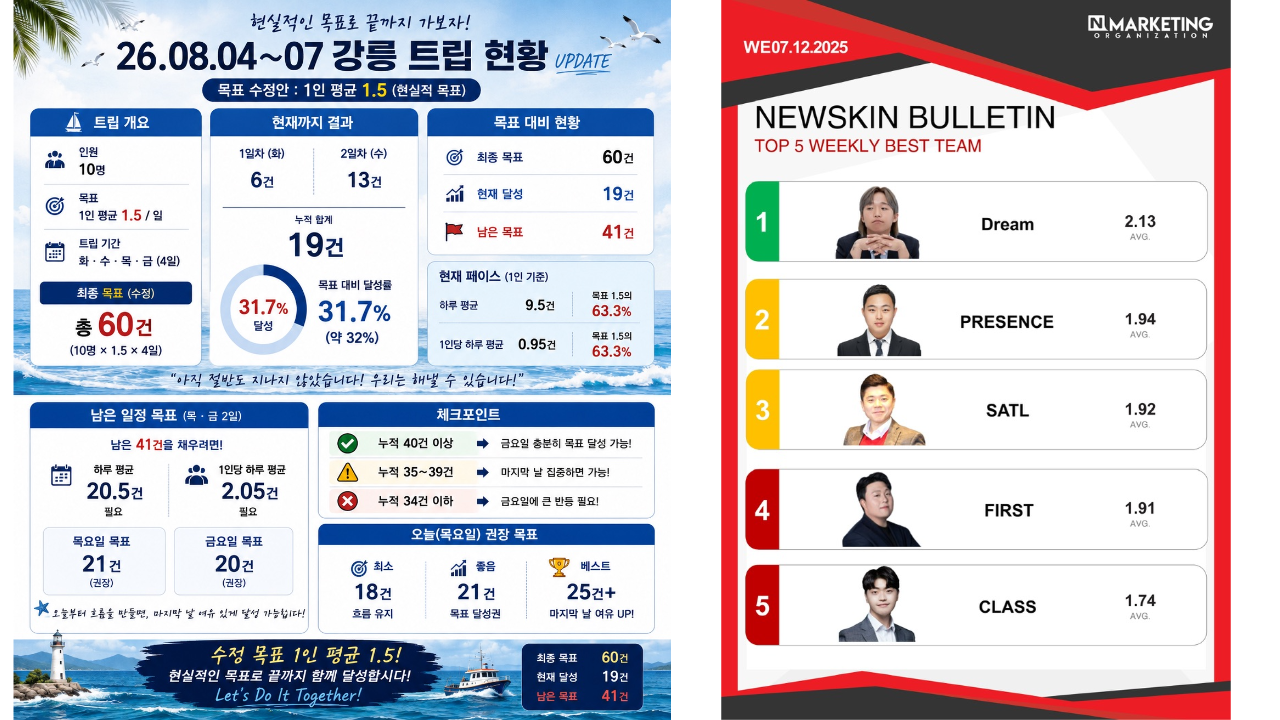
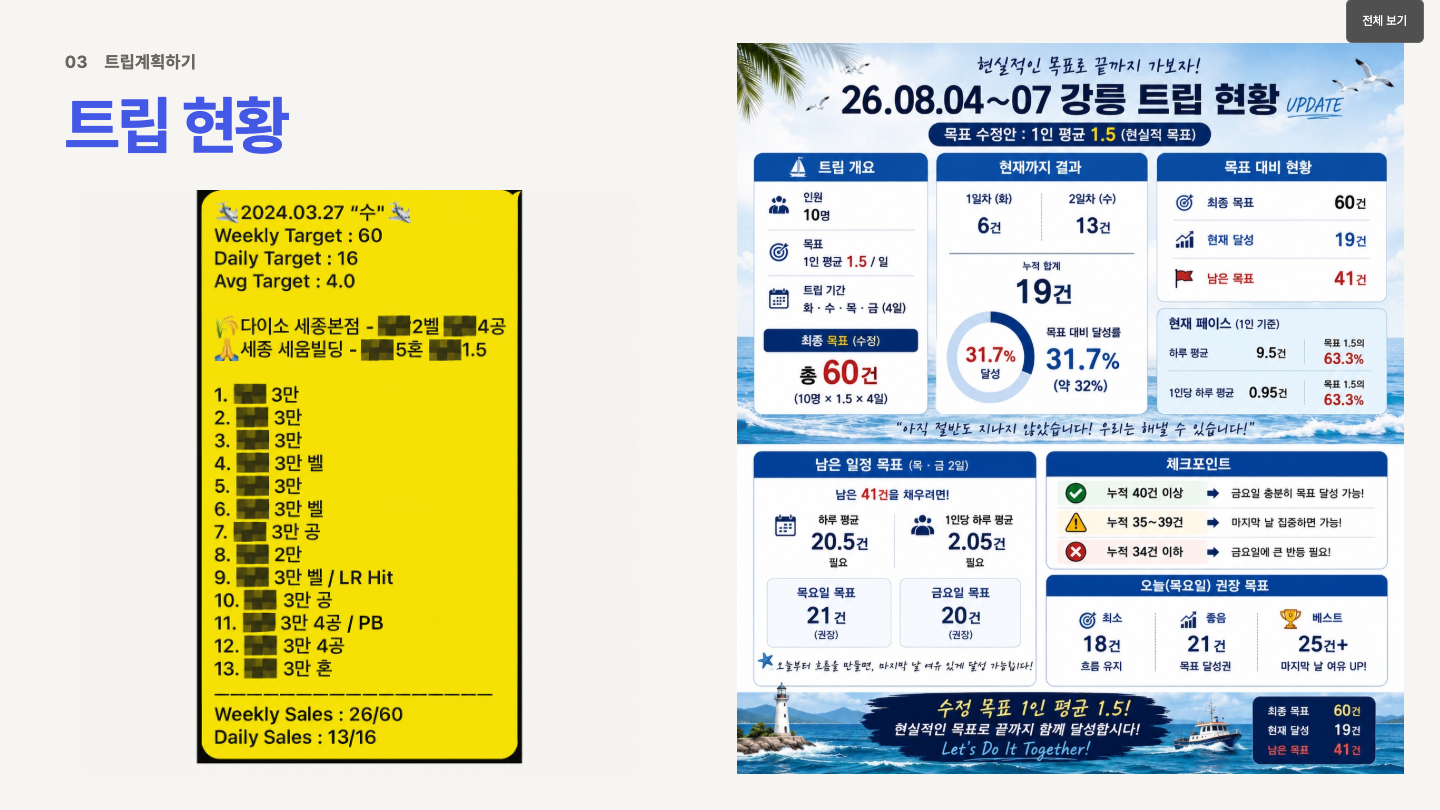
Add anonymized score chat beside trip status report

diff --git a/education/sector-leader/trip-guide/presentation.js b/education/sector-leader/trip-guide/presentation.js
@@ -36,7 +36,7 @@ return shell(s===3?'함께 배우는 것':'트립의 목적',1,bodies[s],s===3?'
 {title:'사이트 선정',steps:['자료와 현장 확인'],render:()=>shell('사이트 선정',3,`<div class="site-list"><strong>CTM 자료</strong><strong>카카오맵</strong><strong>네이버지도</strong><strong>사용 가능 여부</strong></div><div class="site-photo">${photo('site-map-gangneung.png','네이버지도 강릉 다이소 사이트 선정 예시')}</div>`,'site-slide',true)},
 {title:'트립 목표 설정',steps:['Best / Good / Minimum','계획 예시 01–04','계획 예시 05–08','목표 입력 예시'],render:s=>s===0?shell('트립 목표 설정',3,`<div class="abc">${[['A','Best','최고의 결과'],['B','Good','좋은 결과'],['C','Minimum','최소한의 결과']].map(([a,b,c])=>`<div><strong>${a}</strong><h3>${b}</h3><p>${c}</p></div>`).join('')}</div><p class="bottom-caption">스코어 / 클로즈 / 보상</p>`):s<=2?planReference(s-1):reference('나의 목표 세팅',3,'image22.png','트립 목표 입력 화면 예시')},
 {title:'나의 트립계획',steps:['배움과 지킬 약속'],render:()=>shell('나의 트립계획',3,'<div class="personal-plan"><p class="person-name">임재영</p><h3>BEP 넘기고 오기<br><em>PB 찍고 가기</em></h3><div class="personal-details"><div><strong>배우고 싶은 것</strong><p>컨텍 / STP / 트립 운영</p></div><div><strong>지킬 약속</strong><p>필드시간 / 루틴 / 서로 신뢰</p></div></div></div>','personal-slide',true)},
-{title:'트립 현황과 성과',steps:['트립 현황','팀 성과 기록'],render:s=>reference(s===0?'트립 현황':'팀 성과 기록',3,s===0?'image24.jpeg':'image23.jpeg',s===0?'26.08.04~07 강릉 트립 현황 기록':'NEWSKIN BULLETIN 팀 성과 기록')},
+{title:'트립 현황과 성과',steps:['트립 현황','팀 성과 기록'],render:s=>s===0?shell('트립 현황',3,`<div class="status-pair" role="region" aria-label="트립 스코어와 현황표" tabindex="0"><div class="status-chat"><button class="photo" data-readable="true" data-image="${base}trip-score-chat-redacted-v13.png" data-caption="카카오톡 스코어 현황 · 이름 가림" aria-label="카카오톡 스코어 현황 크게 보기"><img src="${base}trip-score-chat-redacted-v13.png" alt="이름을 가린 카카오톡 스코어 현황" decoding="async"></button></div><div class="status-report">${photo('image24.jpeg','26.08.04~07 강릉 트립 현황 기록')}</div></div>`,'status-slide'):reference('팀 성과 기록',3,'image23.jpeg','NEWSKIN BULLETIN 팀 성과 기록')},
 {title:'트립운영하기',steps:['요일별 테마','운영 기준'],render:s=>s===0?shell('트립운영하기',4,`<div class="week">${[['월','기강','첫날 집중'],['화','태도유지','첫날의 태도'],['수','액티비티','함께 재충전'],['목','PB 달성','최고 결과'],['금','빠벨','빠른 복귀']].map(([a,b,c])=>`<div><strong>${a}</strong><h3>${b}</h3><p>${c}</p></div>`).join('')}</div>`):shell('요일별 운영 기준',4,'<div class="criteria"><div><p>수요일</p><strong>19:00</strong><p>필드 종료</p><small>월·화 합산 팀 AVG 1.5 이상</small></div><div><p>금요일</p><strong>14~15시</strong><p>필드 종료 목표</p><small>0건인 팀원이 있으면 복귀 X</small></div></div>','criteria-slide',true)},
 {title:'트립의 순간들',steps:Array.from({length:5},(_,i)=>`사진 ${i*6+1}–${Math.min(29,i*6+6)} / 29`),render:s=>shell('트립의 순간들',4,`<div class="album-grid">${album.slice(s*6,s*6+6).map(m=>`<button class="photo cover" data-image="${m.src}" data-caption="${m.title}" data-album="true" aria-label="${m.title} 크게 보기"><img src="${m.src}" alt="${m.title}" decoding="async"></button>`).join('')}</div>`,'album-slide',true)},
 {title:'3일 트립이라면',steps:['기강 · 액티비티 · PB'],render:()=>shell('3일 트립이라면',4,`<div class="three-day"><strong>3</strong><div>${[['1일차','기강'],['2일차','액티비티'],['3일차','PB']].map(([a,b])=>`<p><span>${a}</span><b>${b}</b></p>`).join('')}</div></div>`)},
@@ -49,7 +49,7 @@ function show(p=page,s=0){page=Math.max(0,Math.min(pages.length-1,p));step=Math.
 function next(){if(step<pages[page].steps.length-1)show(page,step+1);else if(page<pages.length-1)show(page+1,0);}
 function prev(){if(step>0)show(page,step-1);else if(page>0)show(page-1,pages[page-1].steps.length-1);}
 $('next').onclick=next;$('prev').onclick=prev;
-$('overview').innerHTML=pages.map((p,i)=>`<button class="thumb" data-page="${i}">${i===12?'<div class="overview-album">'+album.slice(0,6).map(m=>`<img src="${m.src}" alt="" loading="lazy">`).join('')+'</div>':`<img src="assets/overview-v10/${String(i+1).padStart(2,'0')}.png?v=20260915-v12" alt="" loading="lazy">`}<span>${String(i+1).padStart(2,'0')} ${p.title}${p.steps.length>1?' · '+p.steps.length+'단계':''}</span></button>`).join('');
+$('overview').innerHTML=pages.map((p,i)=>`<button class="thumb" data-page="${i}">${i===12?'<div class="overview-album">'+album.slice(0,6).map(m=>`<img src="${m.src}" alt="" loading="lazy">`).join('')+'</div>':`<img src="assets/overview-v10/${String(i+1).padStart(2,'0')}.png?v=20260915-v13" alt="" loading="lazy">`}<span>${String(i+1).padStart(2,'0')} ${p.title}${p.steps.length>1?' · '+p.steps.length+'단계':''}</span></button>`).join('');
 $('overview').onclick=e=>{const b=e.target.closest('[data-page]');if(b){show(Number(b.dataset.page));window.scrollTo({top:0,behavior:'instant'});}};
 $('present').onclick=()=>{document.body.classList.add('presenting');window.scrollTo({top:0,behavior:'instant'});};$('exitPresentation').onclick=()=>document.body.classList.remove('presenting');
 $('note').oninput=()=>{notes[stateKey()]=$('note').value;try{localStorage.setItem(noteKey,JSON.stringify(notes));$('saved').textContent='이 브라우저에 저장했습니다.';}catch{$('saved').textContent='메모를 복사해 보관해 주세요.';}};
@@ -57,7 +57,7 @@ $('copy').onclick=async()=>{const text=Object.entries(notes).filter(([,v])=>v.tr
 $('pauseFilms').onclick=()=>{paused=!paused;syncFilms();};
 $('showScenes').onclick=()=>{$('sceneFrame').src='scenes/index.html?embed=1&v=20260915-v10';$('tripScenes').showModal();syncFilms();};$('closeScenes').onclick=()=>$('tripScenes').close();$('tripScenes').addEventListener('close',()=>{$('sceneFrame').src='about:blank';syncFilms();$('showScenes').focus({preventScroll:true});});
 function showImage(i){imageIndex=Math.max(0,Math.min(imageItems.length-1,i));const m=imageItems[imageIndex];$('largeImage').src=m.src;$('largeImage').alt=m.title;$('imageCaption').textContent=m.title;$('imageOriginal').href=m.src;$('imageCount').textContent=imageItems.length>1?`${imageIndex+1} / ${imageItems.length}`:'';$('imagePrev').hidden=$('imageNext').hidden=imageItems.length===1;$('imagePrev').disabled=imageIndex===0;$('imageNext').disabled=imageIndex===imageItems.length-1;}
-$('slideCanvas').onclick=e=>{const choice=e.target.closest('[data-plan-group]');if(choice){show(8,Number(choice.dataset.planGroup)+1);return;}const b=e.target.closest('[data-image]');if(!b)return;returnFocus=b;imageItems=b.dataset.plan?plans:b.dataset.album?album:[{src:b.dataset.image,title:b.dataset.caption}];$('readImage').hidden=!b.dataset.plan;$('imageViewer').classList.remove('reading-image');$('readImage').textContent='확대해서 읽기';$('readImage').setAttribute('aria-pressed','false');showImage(imageItems.findIndex(i=>i.src===b.dataset.image));$('imageViewer').showModal();syncFilms();};
+$('slideCanvas').onclick=e=>{const choice=e.target.closest('[data-plan-group]');if(choice){show(8,Number(choice.dataset.planGroup)+1);return;}const b=e.target.closest('[data-image]');if(!b)return;returnFocus=b;imageItems=b.dataset.plan?plans:b.dataset.album?album:[{src:b.dataset.image,title:b.dataset.caption}];$('readImage').hidden=!(b.dataset.plan||b.dataset.readable);$('imageViewer').classList.remove('reading-image');$('readImage').textContent='확대해서 읽기';$('readImage').setAttribute('aria-pressed','false');showImage(imageItems.findIndex(i=>i.src===b.dataset.image));$('imageViewer').showModal();syncFilms();};
 $('readImage').onclick=()=>{const on=$('imageViewer').classList.toggle('reading-image');$('readImage').textContent=on?'화면에 맞추기':'확대해서 읽기';$('readImage').setAttribute('aria-pressed',String(on));};
 $('closeImage').onclick=()=>$('imageViewer').close();$('imagePrev').onclick=()=>showImage(imageIndex-1);$('imageNext').onclick=()=>showImage(imageIndex+1);$('imageViewer').addEventListener('close',()=>{syncFilms();returnFocus?.focus({preventScroll:true});});
 document.addEventListener('keydown',e=>{if(e.metaKey||e.ctrlKey||e.altKey||/TEXTAREA|INPUT/.test(e.target.tagName)||!$('tripIntro').hidden||$('tripScenes').open)return;if($('imageViewer').open){if(e.key==='ArrowRight'){e.preventDefault();showImage(imageIndex+1);}if(e.key==='ArrowLeft'){e.preventDefault();showImage(imageIndex-1);}return;}if(e.key==='ArrowRight'){e.preventDefault();next();}else if(e.key==='ArrowLeft'){e.preventDefault();prev();}else if(e.key==='Home'){e.preventDefault();show(0);}else if(e.key==='End'){e.preventDefault();show(pages.length-1);}else if(e.key==='Escape')document.body.classList.remove('presenting');});

diff --git a/education/sector-leader/trip-guide/index.html b/education/sector-leader/trip-guide/index.html
@@ -1,7 +1,7 @@
 <!doctype html>
 <html lang="ko">
 <head><meta charset="utf-8"><meta name="viewport" content="width=device-width,initial-scale=1"><link rel="icon" href="data:,"><meta name="color-scheme" content="light"><meta name="theme-color" content="#0B0B0E"><meta name="description" content="트립의 목적, 지역 선정, 계획, 운영, 피드백. 15개 페이지로 보는 Presence 트립 운영 가이드."><title>트립 운영 가이드 · PRESENCE</title>
-<link rel="stylesheet" href="base.css?v=20260915-v10"><link rel="stylesheet" href="intro.css?v=20260915-v10"><link rel="stylesheet" href="presentation.css?v=20260915-v12"></head><body class="intro-active"><script>window.TRIP_START_WITH_INTRO=!/^#slide-\d+/.test(location.hash);</script><section id="tripIntro" class="trip-intro" aria-label="트립 인트로">
+<link rel="stylesheet" href="base.css?v=20260915-v10"><link rel="stylesheet" href="intro.css?v=20260915-v10"><link rel="stylesheet" href="presentation.css?v=20260915-v13"></head><body class="intro-active"><script>window.TRIP_START_WITH_INTRO=!/^#slide-\d+/.test(location.hash);</script><section id="tripIntro" class="trip-intro" aria-label="트립 인트로">
   <div class="intro-films" id="introFilms" aria-hidden="true"></div><div class="intro-vignette" aria-hidden="true"></div><div class="intro-header"><span class="intro-brand">PRESENCE</span><div class="intro-controls"><button id="pauseIntro" aria-pressed="false" aria-label="인트로 애니메이션 일시정지">일시정지</button><button id="introFullscreen">전체화면</button></div></div>
   <div class="intro-scene"><div class="intro-copy"><p>LET’S GO</p><h1>TRIP<span class="intro-dot">.</span></h1><div class="intro-subtitle">함께 떠나는, 트립 운영 가이드</div></div><div class="intro-flight"><img src="assets/trip-plane-clouds.png?v=20260915-v10" alt="구름 사이를 날아가는 귀여운 비행기" width="1448" height="1086" fetchpriority="high"></div></div>
   <div class="intro-footer"><span>SECTOR LEADER<br><small>PROFIT · PROGRESS · PEOPLE</small></span><button id="startTrip" class="start-trip">다음 장 <span aria-hidden="true">↗</span></button></div>
@@ -14,4 +14,4 @@
 <section class="overview-section"><h2>전체 15개 페이지</h2><div id="overview" class="overview"></div></section></main><button id="exitPresentation" class="exit-presentation">전체 보기</button></div>
 <dialog id="tripScenes" class="gallery-dialog" aria-label="트립 장면 51개"><div class="gallery-top"><span>PRESENCE / TRIP SCENES</span><button id="closeScenes">발표로 돌아가기</button></div><iframe id="sceneFrame" title="51개의 트립 장면" allow="fullscreen"></iframe></dialog>
 <dialog id="imageViewer" class="image-viewer" aria-label="이미지 크게 보기"><div class="viewer-top"><p id="imageCaption"></p><button id="readImage" aria-pressed="false" hidden>확대해서 읽기</button><button id="closeImage">닫기</button></div><div class="viewer-image"><img id="largeImage" alt=""></div><div class="viewer-tools"><button id="imagePrev" aria-label="이전 사진">←</button><span id="imageCount"></span><button id="imageNext" aria-label="다음 사진">→</button><a id="imageOriginal" target="_blank" rel="noopener">원본 크기</a></div></dialog>
-<script src="media-data.js?v=20260915-v10"></script><script src="presentation.js?v=20260915-v12"></script><script src="intro.js?v=20260915-v10.1"></script></body></html>
+<script src="media-data.js?v=20260915-v10"></script><script src="presentation.js?v=20260915-v13"></script><script src="intro.js?v=20260915-v10.1"></script></body></html>

diff --git a/education/sector-leader/trip-guide/presentation.css b/education/sector-leader/trip-guide/presentation.css
@@ -85,3 +85,27 @@ body,button,a,textarea{font-family:Trip,'Apple SD Gothic Neo',sans-serif}body{--
  .viewer-top:has(#readImage:not([hidden])){flex-wrap:wrap}
  .viewer-top:has(#readImage:not([hidden])) p{width:100%;margin-bottom:0}
 }
+
+/* Keep the score chat on the left and the existing status report against the right edge. */
+.status-slide{display:grid;grid-template-columns:44% minmax(0,1fr);grid-template-rows:auto minmax(0,1fr);gap:2cqw 3cqw;padding:3cqw 2.5cqw 2.5cqw 4.5cqw}
+.status-slide .slide-heading{grid-column:1;grid-row:1;padding-top:.5cqw}
+.status-slide .section-label{font-size:1.2cqw;margin-bottom:1cqw!important}
+.status-slide h2{font-size:4.4cqw}
+.status-slide .slide-body,.status-pair{display:contents}
+.status-chat{grid-column:1;grid-row:2;min-width:0;min-height:0;height:100%}
+.status-report{grid-column:2;grid-row:1 / span 2;min-width:0;min-height:0;height:100%}
+.status-report .photo img{object-position:right center}
+.status-chat .photo img{object-position:center center;mix-blend-mode:multiply}
+@media(max-width:600px) and (orientation:portrait){
+ .status-slide{display:flex;padding:24px 14px;gap:20px}
+ .presenting .status-slide{padding-top:60px}
+ .status-slide .slide-heading{padding:0 4px}
+ .status-slide .section-label{font-size:12px;margin-bottom:12px!important}
+ .status-slide h2{font-size:30px}
+ .status-slide .slide-body{display:flex;min-height:0}
+ .status-pair{display:flex;flex-direction:column;gap:20px;min-height:0;width:100%;overflow:auto;overscroll-behavior:contain}
+ .status-chat,.status-report{height:auto;width:100%;flex:none}
+ .status-chat .photo,.status-report .photo{height:auto}
+ .status-chat .photo img,.status-report .photo img{height:auto;width:100%}
+ .status-report .photo img{object-position:right center}
+}
